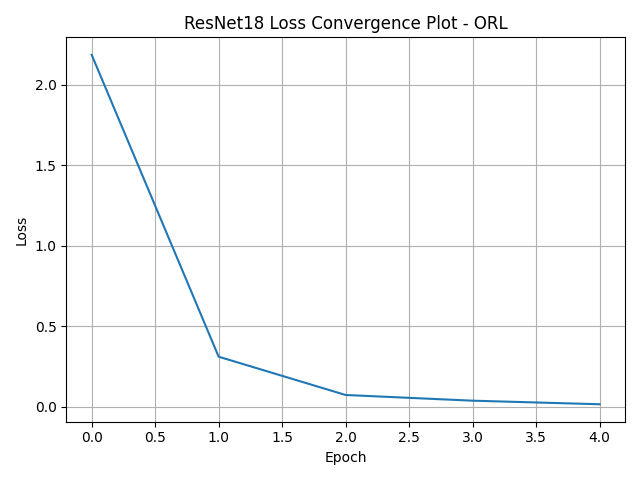
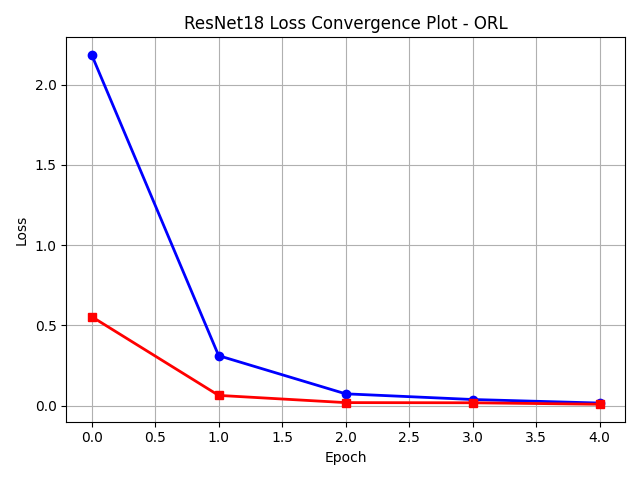
orl resnet update

diff --git a/local_code/stage_3_code/Jeslyn/Method_ResNet_ORL.py b/local_code/stage_3_code/Jeslyn/Method_ResNet_ORL.py
@@ -36,6 +36,8 @@ class Method_ResNet_ORL(method):
         self.optimizer = None
         self.historical_loss = []
         self.historical_accuracy = []
+        self.historical_test_loss = []
+        self.historical_test_accuracy = []
 
         self.resize_transform = transforms.Compose([
             transforms.Resize((224, 224)),
@@ -62,7 +64,26 @@ class Method_ResNet_ORL(method):
 
         return X_rgb
 
+    def evaluate_test_set(self, X_test, y_test):
+        X_tensor = torch.FloatTensor(np.array(X_test))
+        X_tensor = self.preprocess_images(X_tensor)
+        y_tensor = torch.LongTensor(np.array(y_test))
+
+        self.net.eval()
+        with torch.no_grad():
+            outputs = self.net(X_tensor)
+            test_loss = self.criterion(outputs, y_tensor).item()
+            _, predicted = torch.max(outputs, 1)
+            correct = (predicted == y_tensor).sum().item()
+            test_accuracy = 100 * correct / len(y_tensor)
+
+        self.net.train()
+        return test_loss, test_accuracy
+
     def train(self, X, y):
+        X_test = self.data['test']['X']
+        y_test = self.data['test']['y']
+
         X_tensor = torch.FloatTensor(np.array(X))
         X_tensor = self.preprocess_images(X_tensor)
         y_tensor = torch.LongTensor(np.array(y))
@@ -71,8 +92,8 @@ class Method_ResNet_ORL(method):
         trainloader = DataLoader(dataset, batch_size=8, shuffle=True, num_workers=0)
 
         self.optimizer = optim.Adam(self.net.parameters(),
-                                   lr=self.learning_rate,
-                                   weight_decay=1e-4)
+                                    lr=self.learning_rate,
+                                    weight_decay=1e-4)
 
         print(f'Training ResNet on ORL...')
         print(f'Input shape: {X_tensor.shape}')
@@ -112,9 +133,13 @@ class Method_ResNet_ORL(method):
             epoch_acc = 100 * correct / total
             self.historical_accuracy.append(epoch_acc)
 
-            if (epoch + 1) % 10 == 0:
-                print(
-                    f'*** Epoch [{epoch + 1}/{self.max_epoch}] Avg Loss: {avg_epoch_loss:.4f}, Accuracy: {epoch_acc:.2f}% ***')
+            test_loss, test_acc = self.evaluate_test_set(X_test, y_test)
+            self.historical_test_loss.append(test_loss)
+            self.historical_test_accuracy.append(test_acc)
+
+            print(f'*** Epoch [{epoch + 1}/{self.max_epoch}] '
+                  f'Train Loss: {avg_epoch_loss:.4f}, Train Acc: {epoch_acc:.2f}% | '
+                  f'Test Loss: {test_loss:.4f}, Test Acc: {test_acc:.2f}% ***')
 
         print('Finished Training')
 

diff --git a/script/stage_3_script/Jeslyn/script_resnet_orl.py b/script/stage_3_script/Jeslyn/script_resnet_orl.py
@@ -59,7 +59,8 @@ if 1:
 
     # --- Loss Convergence Plot -------
     plt.figure()
-    plt.plot(method_obj.historical_loss)
+    plt.plot(method_obj.historical_loss, 'b-', label='Training Loss', linewidth=2, marker='o')
+    plt.plot(method_obj.historical_test_loss, 'r-', label='Testing Loss', linewidth=2, marker='s')
     plt.xlabel('Epoch')
     plt.ylabel('Loss')
     plt.title('ResNet18 Loss Convergence Plot - ORL')
